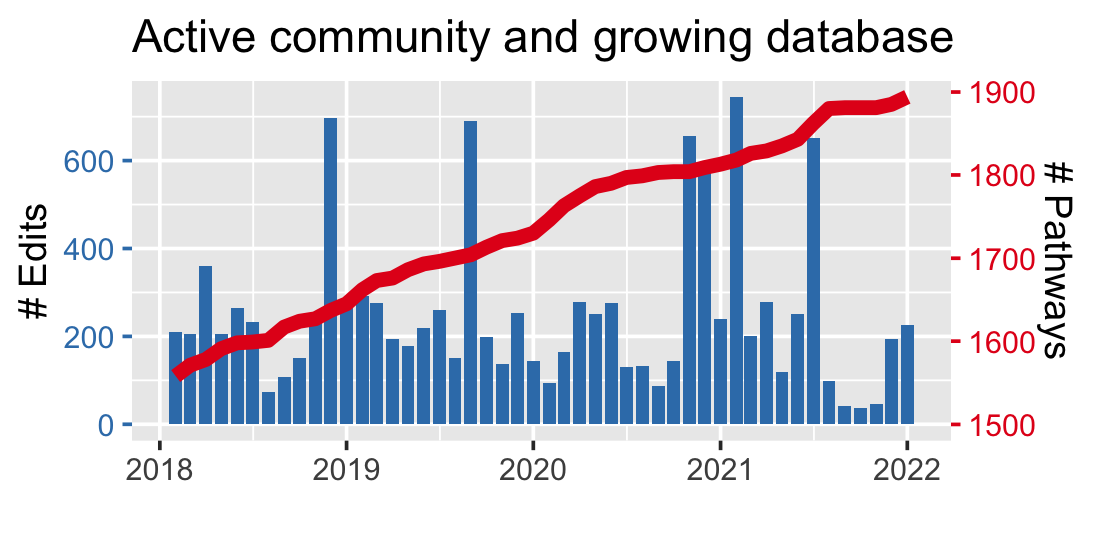
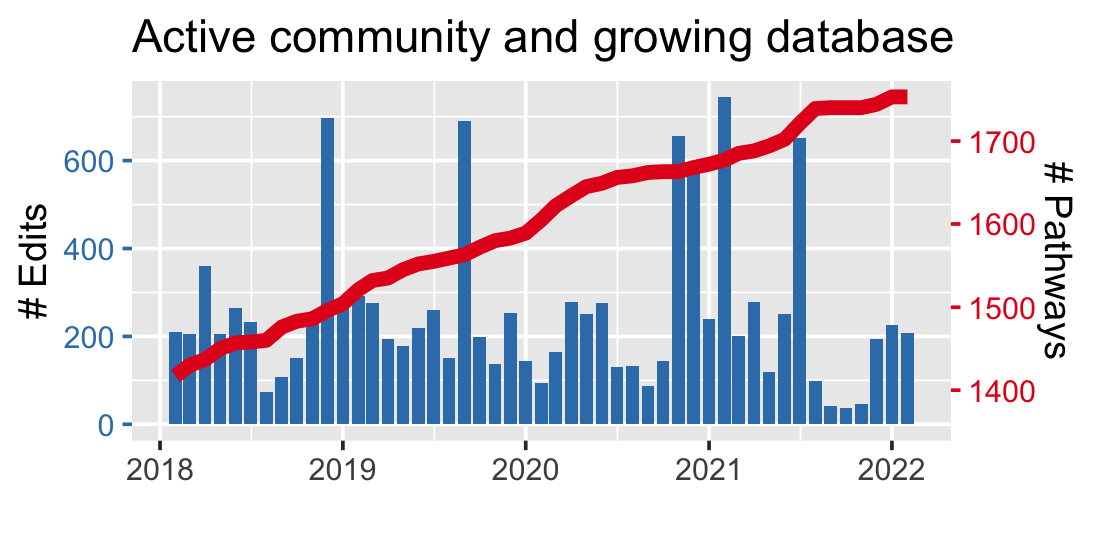
updated stats for feb 2022

diff --git a/_rmd/stats.md b/_rmd/stats.md
@@ -1,5 +1,5 @@
 ---
-title: stats
+title: Stats
 ---
 # WikiPathways Stats
 
@@ -110,3 +110,6 @@ ggsave("../assets/img/main_stats.png", plot = last_plot(),
 ```
 
     ## Warning: Removed 12 rows containing missing values (position_stack).
+
+Finally, knit this Rmd and move stats.md and stat_files dir to \_rmd.
+Manually add frontmatter section with `title:Stats` to stats.md.
